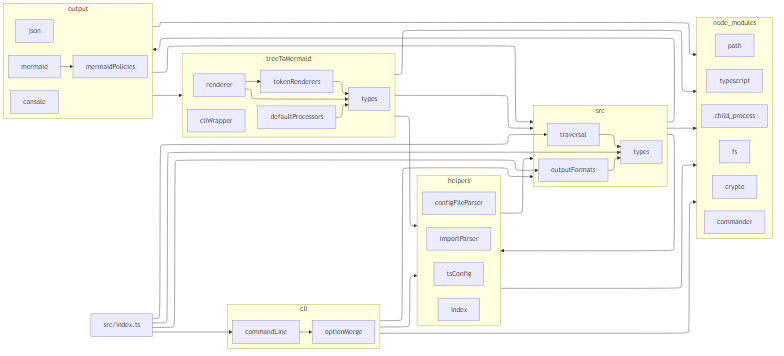
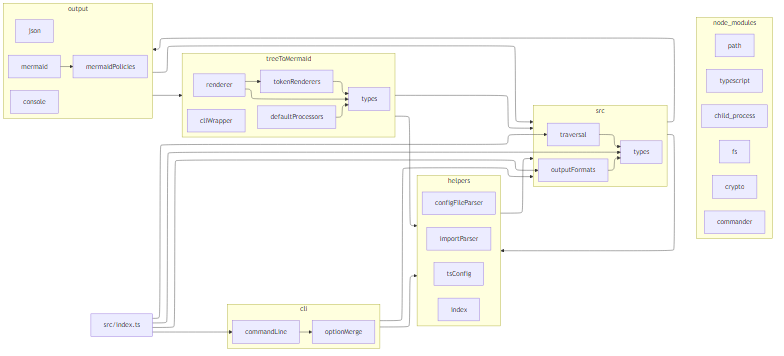
42 Customizable links

diff --git a/src/output/mermaidPolicies.ts b/src/output/mermaidPolicies.ts
@@ -1,4 +1,4 @@
-import type { MermaidNodeNamePolicy, MermaidSubgraphPolicy, ResultTreeNode } from "../types";
+import type { MermaidFormatOptions, MermaidLinkPolicy, MermaidNodeNamePolicy, MermaidSubgraphPolicy, ResultTreeNode } from "../types";
 
 const mermaidSubgraphPolicies = {
     none: () => undefined,
@@ -17,6 +17,49 @@ const mermaidNodeNamePolicy = {
     default: (node: ResultTreeNode) => node.moduleName,
 };
 
+type LinkPolicyArg = typeof mermaidSubgraphPolicies.default;
+
+const mermaidTreeLinkPolicy = {
+    default: (getSubgraphName: LinkPolicyArg) => (to?: ResultTreeNode, from?: ResultTreeNode) => {
+        if (to && from) {
+            return {
+                id: `${from?.uniqueId}_${to?.uniqueId}`,
+                startId: from?.uniqueId,
+                endId: to?.uniqueId,
+                linkType: to.type === "Source file" ? "thick" : from.type === "Node module" ? "arrow" : "dotted",
+            };
+        }
+    },
+};
+
+const mermaidGraphLinkPolicy = {
+    default: (getSubgraphName: LinkPolicyArg) => (to?: ResultTreeNode, from?: ResultTreeNode) => {
+        if (!to || !from) {
+            return undefined;
+        }
+        const startGroup = getSubgraphName ? getSubgraphName(from) : undefined;
+        const endGroup = getSubgraphName ? getSubgraphName(to) : undefined;
+        let startId;
+        let endId;
+        if (startGroup === endGroup || !startGroup) {
+            startId = from.id;
+            endId = to.id;
+        } else if (startGroup !== endGroup) {
+            startId = startGroup;
+            endId = endGroup;
+        }
+
+        if (startId && endId) {
+            return {
+                id: `${startId}_${endId}`,
+                startId,
+                endId,
+                linkType: endId === "node_modules" ? "invisible" : "arrow",
+            };
+        }
+    },
+};
+
 export const getMermaidGroupNamePolicy = (policy?: MermaidSubgraphPolicy) => {
     if (typeof policy === "function") {
         return policy;
@@ -29,4 +72,18 @@ export const getMermaidNodeNamePolicy = (policy?: MermaidNodeNamePolicy) => {
         return policy;
     }
     return (policy && mermaidNodeNamePolicy[policy]) ?? mermaidNodeNamePolicy.default;
+};
+
+export const getMermaidLinkPolicy = (opt: MermaidFormatOptions) => {
+    const policy = opt.policies?.link as MermaidLinkPolicy;
+    if (typeof policy === "function") {
+        return policy;
+    }
+
+    const subgraphPolicy = getMermaidGroupNamePolicy(opt.policies?.subgraph);
+
+    if (opt.chartType === "tree") {
+        return (policy && mermaidTreeLinkPolicy[policy](subgraphPolicy)) ?? mermaidTreeLinkPolicy.default(subgraphPolicy);
+    }
+    return (policy && mermaidGraphLinkPolicy[policy](subgraphPolicy)) ?? mermaidGraphLinkPolicy.default(subgraphPolicy);
 };

diff --git a/src/treeToMermaid/defaultProcessors.ts b/src/treeToMermaid/defaultProcessors.ts
@@ -4,6 +4,10 @@ import { MermaidProcessor } from "./types";
 export const getDefaultProcessors = (opt: MermaidFormatOptions): Record<string, MermaidProcessor<ResultTreeNode>> => {
     const getSubgraphName = opt.policies?.subgraph as (node: ResultTreeNode) => string | undefined;
     const getNodeName = opt.policies?.nodeName as (node: ResultTreeNode) => string;
+    const getLink = opt.policies?.link as (
+        to?: ResultTreeNode,
+        from?: ResultTreeNode
+    ) => { id: string; startId: string; endId: string; linkType: string } | undefined;
 
     if (opt.chartType === "tree") {
         return {
@@ -15,16 +19,7 @@ export const getDefaultProcessors = (opt: MermaidFormatOptions): Record<string, 
                 id: current?.uniqueId!,
                 name: getNodeName ? getNodeName(current!) : current?.moduleName,
             }),
-            link: (current?: ResultTreeNode, parent?: ResultTreeNode) => {
-                if (current && parent) {
-                    return {
-                        id: `${parent?.uniqueId}_${current?.uniqueId}`,
-                        startId: parent?.uniqueId,
-                        endId: current?.uniqueId,
-                        linkType: current.type === "Source file" ? "thick" : current.type === "Node module" ? "arrow" : "dotted",
-                    };
-                }
-            },
+            link: getLink,
             config: () => ({
                 id: "config",
                 theme: "default",
@@ -47,31 +42,7 @@ export const getDefaultProcessors = (opt: MermaidFormatOptions): Record<string, 
                 groupName: getSubgraphName ? getSubgraphName(current) : undefined,
             };
         },
-        link: (current?: ResultTreeNode, parent?: ResultTreeNode) => {
-            if (!current || !parent) {
-                return undefined;
-            }
-            const startGroup = getSubgraphName ? getSubgraphName(parent) : undefined;
-            const endGroup = getSubgraphName ? getSubgraphName(current) : undefined;
-            let startId;
-            let endId;
-            if (startGroup === endGroup || !startGroup) {
-                startId = parent.id;
-                endId = current.id;
-            } else if (startGroup !== endGroup) {
-                startId = startGroup;
-                endId = endGroup;
-            }
-
-            if (startId && endId) {
-                return {
-                    id: `${startId}_${endId}`,
-                    startId,
-                    endId,
-                    linkType: "arrow",
-                };
-            }
-        },
+        link: getLink,
         config: () => ({
             id: "config",
             theme: "default",

diff --git a/src/output/mermaid.ts b/src/output/mermaid.ts
@@ -5,7 +5,7 @@ import { mermaidRenderer } from "../treeToMermaid/renderer";
 import { getDefaultProcessors } from "../treeToMermaid/defaultProcessors";
 import { MermaidToken } from "../treeToMermaid/types";
 import { runMermaidCli } from "../treeToMermaid/cliWrapper";
-import { getMermaidGroupNamePolicy, getMermaidNodeNamePolicy } from "./mermaidPolicies";
+import { getMermaidGroupNamePolicy, getMermaidLinkPolicy, getMermaidNodeNamePolicy } from "./mermaidPolicies";
 
 const defaultOptions: MermaidFormatOptions = {
     dir: "LR",
@@ -21,6 +21,7 @@ export const mermaidOutputPlugin = (options: MermaidFormatOptions) => async (imp
     opt.policies = {
         subgraph: getMermaidGroupNamePolicy(opt.policies?.subgraph),
         nodeName: getMermaidNodeNamePolicy(opt.policies?.nodeName),
+        link: getMermaidLinkPolicy(opt),
     };
 
     const processor = mermaidRenderer.create<ResultTreeNode>();

diff --git a/src/types.d.ts b/src/types.d.ts
@@ -51,6 +51,9 @@ export interface JsonFormatOptions {
 
 export type MermaidSubgraphPolicy = "none" | "default" | ((node: ResultTreeNode) => string | undefined);
 export type MermaidNodeNamePolicy = "default" | ((node: ResultTreeNode) => string);
+export type MermaidLinkPolicy =
+    | "default"
+    | ((to?: ResultTreeNode, from?: ResultTreeNode) => { id: string; startId: string; endId: string; linkType: string } | undefined);
 
 export interface MermaidFormatOptions extends JsonFormatOptions {
     dir?: "TB" | "BT" | "LR" | "RL";
@@ -59,6 +62,7 @@ export interface MermaidFormatOptions extends JsonFormatOptions {
     policies?: {
         subgraph?: MermaidSubgraphPolicy;
         nodeName?: MermaidNodeNamePolicy;
+        link?: MermaidLinkPolicy;
     };
 }
 

diff --git a/src/helpers/tsConfig.ts b/src/helpers/tsConfig.ts
@@ -5,7 +5,6 @@ import * as path from "path";
 const getTsConfigFilePath = (initialFilePath: string) => {
     let currentDir = path.dirname(initialFilePath);
     while (currentDir !== "/") {
-        console.log("FOOBAR", currentDir);
         const tsConfigFilePath = path.join(currentDir, "tsconfig.json");
         if (fs.existsSync(tsConfigFilePath)) {
             return { tsConfigFilePath, tsConfigPath: currentDir };

diff --git a/ts-insp.config.ts b/ts-insp.config.ts
@@ -25,6 +25,7 @@ const config: Partial<InspOptions> = {
             policies: {
                 subgraph: "default",
                 nodeName: "default",
+                link: "default",
             },
             cliOptions: {
                 mmdcPathToken: "{mmdc}",

diff --git a/docs/MermaidExample.md b/docs/MermaidExample.md
@@ -43,13 +43,13 @@ a7c2c5aebf261da9ed0ec6111e63d2d3["defaultProcessors"]
 45fc45c3c3ddc9a6a05b8fa52cbd234c["cliWrapper"]
 end
 root root_97436aa4caaa9fe6c1f7fbda54bea5c5@--> 97436aa4caaa9fe6c1f7fbda54bea5c5
-src src_node_modules@--> node_modules
+src src_node_modules@~~~ node_modules
 97436aa4caaa9fe6c1f7fbda54bea5c5 97436aa4caaa9fe6c1f7fbda54bea5c5_152b731d9960fa8a94d223c73a70437c@--> 152b731d9960fa8a94d223c73a70437c
 src src_helpers@--> helpers
-helpers helpers_node_modules@--> node_modules
+helpers helpers_node_modules@~~~ node_modules
 helpers helpers_src@--> src
 root root_6eabf6036c1cd8aaca6f56d1c8fb63e0@--> 6eabf6036c1cd8aaca6f56d1c8fb63e0
-cli cli_node_modules@--> node_modules
+cli cli_node_modules@~~~ node_modules
 cli cli_src@--> src
 cli cli_helpers@--> helpers
 6eabf6036c1cd8aaca6f56d1c8fb63e0 6eabf6036c1cd8aaca6f56d1c8fb63e0_e414dc75f5dcbe2827116d5050a8c6fa@--> e414dc75f5dcbe2827116d5050a8c6fa
@@ -58,7 +58,7 @@ root root_1fe092282d1f404a83c6dfaa449427eb@--> 1fe092282d1f404a83c6dfaa449427eb
 1fe092282d1f404a83c6dfaa449427eb 1fe092282d1f404a83c6dfaa449427eb_152b731d9960fa8a94d223c73a70437c@--> 152b731d9960fa8a94d223c73a70437c
 src src_output@--> output
 output output_src@--> src
-output output_node_modules@--> node_modules
+output output_node_modules@~~~ node_modules
 output output_treeToMermaid@--> treeToMermaid
 treeToMermaid treeToMermaid_helpers@--> helpers
 5fc5c7f77b9094999991e4a88935bbc8 5fc5c7f77b9094999991e4a88935bbc8_ba94a21f1b99f22bcbee495161be6017@--> ba94a21f1b99f22bcbee495161be6017
@@ -66,7 +66,7 @@ ba94a21f1b99f22bcbee495161be6017 ba94a21f1b99f22bcbee495161be6017_43b2c294408e9a
 5fc5c7f77b9094999991e4a88935bbc8 5fc5c7f77b9094999991e4a88935bbc8_43b2c294408e9aca405ff8cc04120742@--> 43b2c294408e9aca405ff8cc04120742
 treeToMermaid treeToMermaid_src@--> src
 a7c2c5aebf261da9ed0ec6111e63d2d3 a7c2c5aebf261da9ed0ec6111e63d2d3_43b2c294408e9aca405ff8cc04120742@--> 43b2c294408e9aca405ff8cc04120742
-treeToMermaid treeToMermaid_node_modules@--> node_modules
+treeToMermaid treeToMermaid_node_modules@~~~ node_modules
 3c9aeb9e1a663982bf18432623f081c0 3c9aeb9e1a663982bf18432623f081c0_02be73a92c1e73068fee3f6a5570552a@--> 02be73a92c1e73068fee3f6a5570552a
 
 ```

diff --git a/README.md b/README.md
@@ -104,6 +104,8 @@ const config: Partial<InspOptions> = {
                 subgraph: "default",
                 // How node names are generated. Options: "default" or a function that returns a string
                 nodeName: "default",
+                // How links are generated. Options: "default" or a function that returns an object
+                link: "default"
             },
             // Options that are used if you want to export
             cliOptions: {
